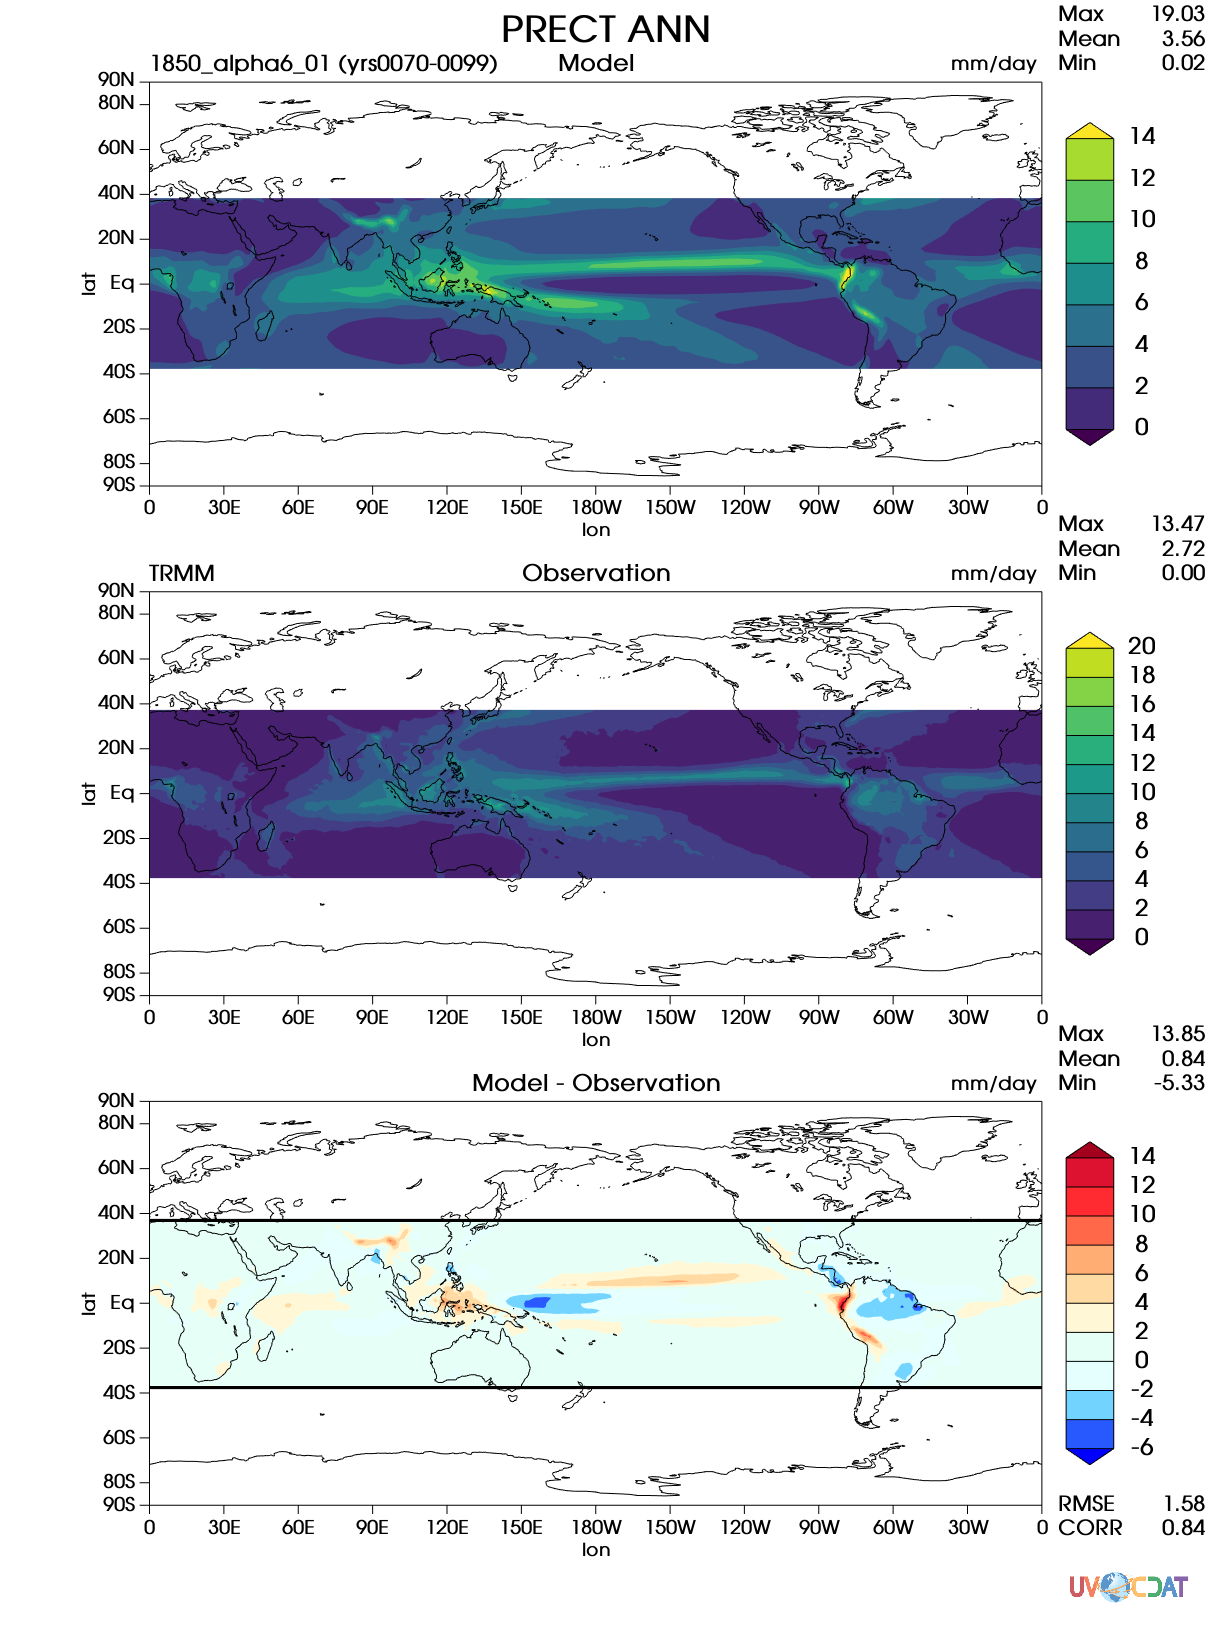
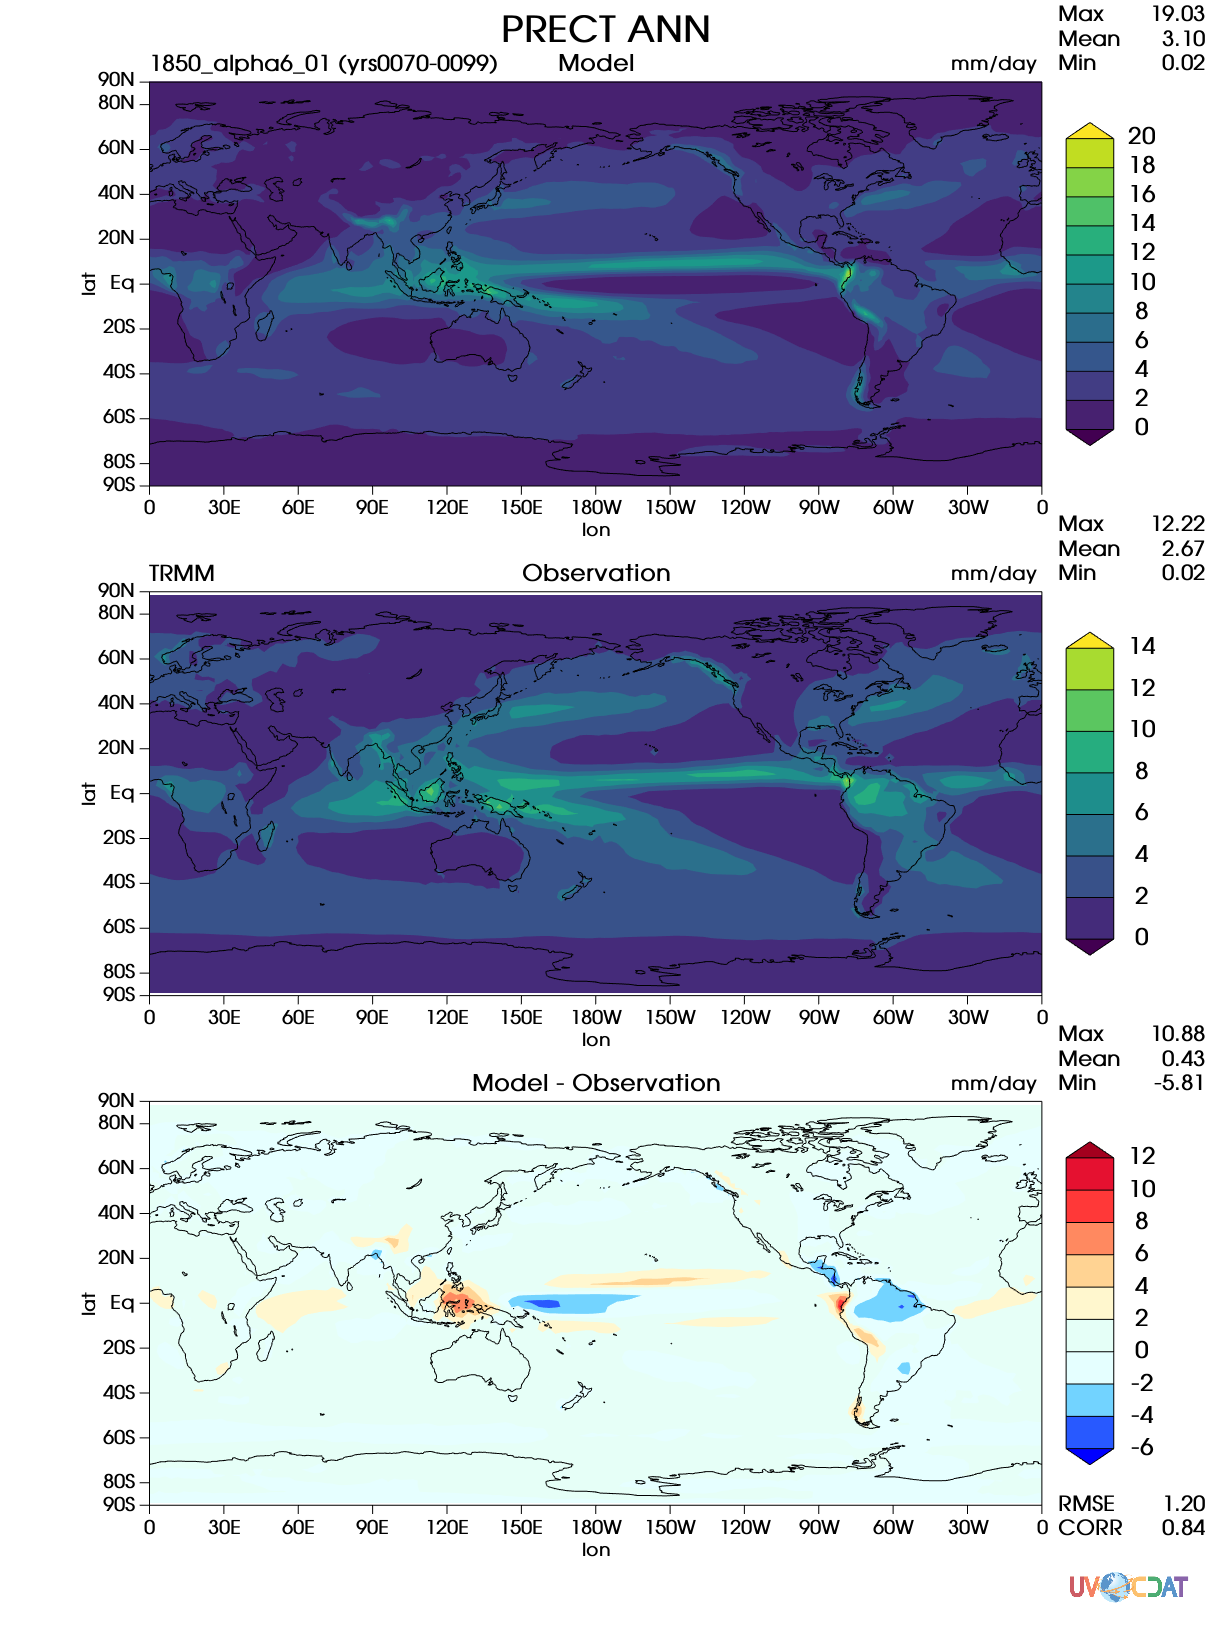
multi run test: main_title not working

diff --git a/acme_diags/plotset5/set5basicparameter.py b/acme_diags/plotset5/set5basicparameter.py
@@ -1,8 +1,8 @@
-#reference_data_path = '/Users/zhang40/Documents/obs_for_diagnostics/'
-#test_data_path = '/Users/zhang40/Documents/ACME_simulations/'
+reference_data_path = '/Users/zhang40/Documents/obs_for_diagnostics/'
+test_data_path = '/Users/zhang40/Documents/ACME_simulations/'
 
-reference_data_path = '/Users/shaheen2/github/acme_diags/acme_diags/'
-test_data_path = '/Users/shaheen2/github/acme_diags/acme_diags/'
+#reference_data_path = '/Users/shaheen2/github/acme_diags/acme_diags/'
+#test_data_path = '/Users/shaheen2/github/acme_diags/acme_diags/'
 test_data_set = '20160520.A_WCYCL1850.ne30_oEC.edison.alpha6_01_ANN_climo.nc'  # model
 
 regrid_tool = 'esmf'

diff --git a/acme_diags/plotset5/set5parameter.py b/acme_diags/plotset5/set5parameter.py
@@ -5,13 +5,14 @@ case_id = 'set5_ANN_PRECT_TRMM'
 #test_data_path = '/Users/shaheen2/github/acme_diags/acme_diags/'
 reference_data_path = '/Users/zhang40/Documents/obs_for_diagnostics/'
 test_data_path = '/Users/zhang40/Documents/ACME_simulations/'
-reference_data_set = 'TRMM_ANN_climo.nc'  # observation
+reference_data_set = 'GPCP_ANN_climo.nc'  # observation
 test_data_set = '20160520.A_WCYCL1850.ne30_oEC.edison.alpha6_01_ANN_climo.nc'  # model
 
 variables = 'PRECT'
 season = 'ANN'
 regrid_tool = 'esmf'
 regrid_method = 'linear'
+#regrid_method = 'conservative'
 
 output_file = 'test'
 

diff --git a/acme_diags/plotset5/set5_driver.py b/acme_diags/plotset5/set5_driver.py
@@ -128,7 +128,11 @@ for parameter in parameters:
     #    parameter.test_levels = levels
     #    parameter.diff_levels = diff_levels
 
-    if var == 'T':
-        parameter.main_title = ' '.join([var, str(plev), 'mb', season])
+###not working
+#    if var == 'T':
+#        #parameter.main_title = ' '.join([var, str(plev), 'mb', season])
+#        parameter.main_title = ' '.join([var, season])
+#    else:
+#        parameter.main_title = ' '.join([var, season])
 
     plot_set_5.plot(obs_pr, mod_pr, obs_pr_reg, mod_pr_reg, parameter)

diff --git a/acme_diags/plotset5/set5parameter_lev.py b/acme_diags/plotset5/set5parameter_lev.py
@@ -8,7 +8,7 @@ test_data_path = '/Users/zhang40/Documents/ACME_simulations/'
 reference_data_set = 'MERRA_ANN_climo.nc'  # observation
 test_data_set = '20160520.A_WCYCL1850.ne30_oEC.edison.alpha6_01_ANN_climo.nc'  # model
 variables = 'T'
-plev = 880
+plev = 850
 season = 'ANN'
 output_file = 'test_lev.png'
 
